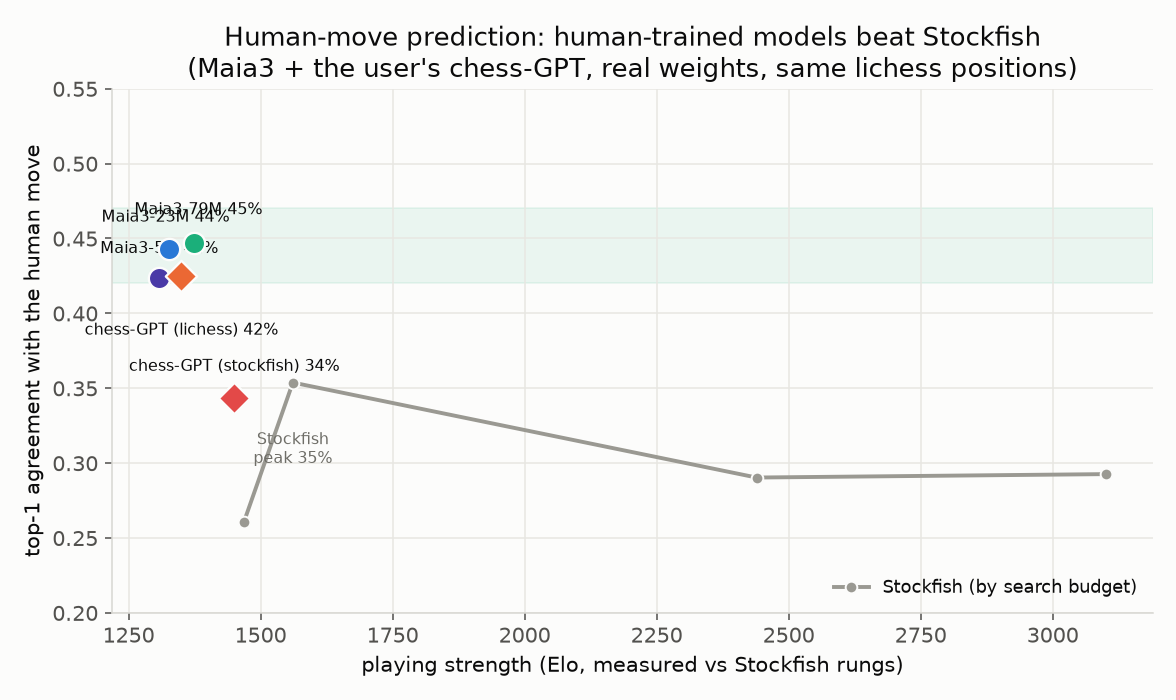
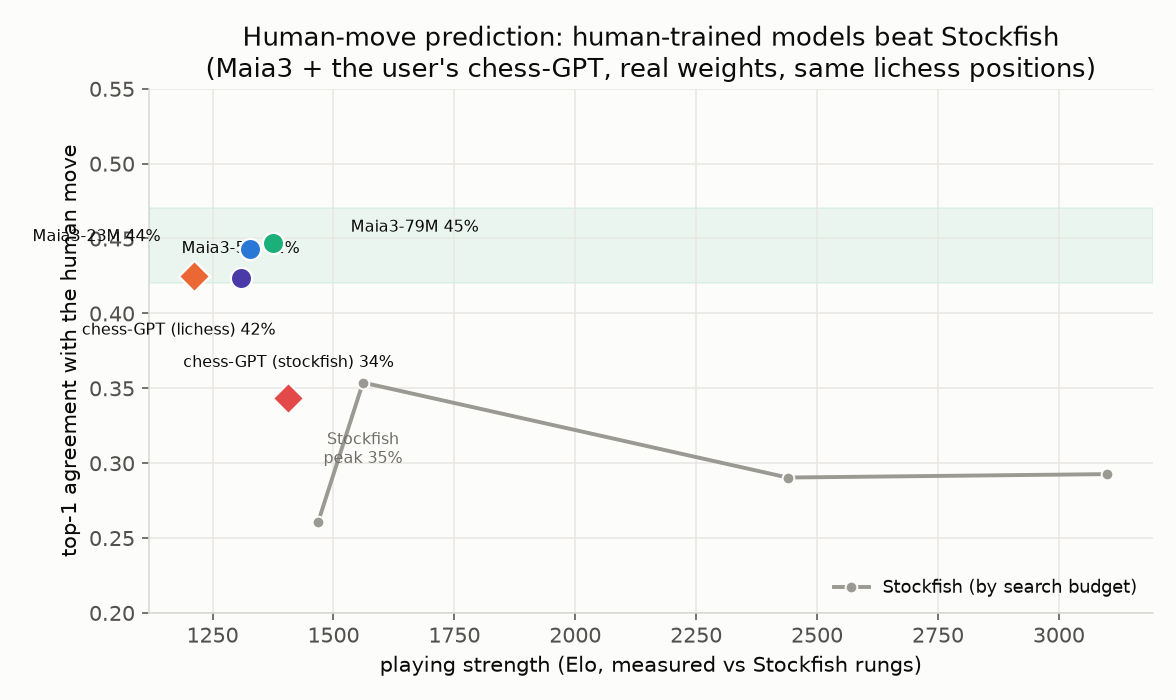
Finalize frontier with measured chess-GPT + Maia3 playing strength
- chess-GPT ladder (on-server self-play vs SF rungs): lichess variant ~1212
  Elo, stockfish variant ~1407 Elo -> a strength-vs-humanness tradeoff WITHIN
  one 50M architecture: engine-trained is +195 Elo stronger but 34% vs 42%
  human-match. Maia3 measured at ~1308/1327/1375 (5M/23M/79M).
- Pareto frontier now uses these measured points (labeled measured vs est.)
  instead of literature guesses for Maia and the chess-LLM.
- Human-move comparison chart finalized with real Elo x-positions.

Claude-Session: https://claude.ai/code/session_01DuEyqYVtVdUK7A6PV3VZ1B

diff --git a/stockfish-interpretability/scripts/make_charts.py b/stockfish-interpretability/scripts/make_charts.py
@@ -215,19 +215,29 @@ def main():
     nps = 1.4e6
     def sf_cost(nodes): return max(nodes / nps * cpu, 1e-9)
     systems = [
-        dict(name="material-only αβ", elo=mat_abs, cost=3e-7, interp=9, color=C["red"]),
+        dict(name="material-only αβ", elo=mat_abs, cost=3e-7, interp=9, color=C["red"], dx=-30, dy=-20),
     ]
+    # real measured Elo for Maia3 + chess-GPT (this study)
+    import os
+    maia = json.load(open("results/maia_ladder_elo.json")) if os.path.exists("results/maia_ladder_elo.json") else {}
+    cgpt = json.load(open("results/chessgpt_ladder_elo.json")) if os.path.exists("results/chessgpt_ladder_elo.json") else {}
+    # a Maia/GPT net forward pass ~ few M FLOPs on CPU ≈ 1e-6 USD/move
+    nn_cost = 1e-6
     systems = [s for s in systems if s["elo"] is not None] + [
         dict(name="SF16 @ 32 nodes", elo=abs_elo["32"], cost=sf_cost(32), interp=5, color=C["blue"], dy=-22),
         dict(name="SF16 @ 1k nodes", elo=abs_elo["1024"], cost=sf_cost(1024), interp=4, color=C["blue"]),
         dict(name="SF16 @ 65k nodes", elo=abs_elo["65536"], cost=sf_cost(65536), interp=4, color=C["blue"]),
         dict(name="SF16 full (~1s)", elo=3500, cost=sf_cost(1.4e6), interp=4, color=C["blue"], dy=-24),
         dict(name="SF16 @ 65k, 3-line explain", elo=abs_elo["65536"] - 215, cost=sf_cost(65536), interp=6, color=C["green"], dx=-62, dy=-30),
-        dict(name="Maia-1900 (policy)", elo=1900, cost=1e-6, interp=3, color=C["violet"], dx=-14),
-        dict(name="Chess-GPT 50M (your app)", elo=1500, cost=5e-7, interp=4, color=C["aqua"], dx=18, dy=14),
-        dict(name="Leela policy-only", elo=2500, cost=2e-5, interp=3, color=C["yellow"]),
-        dict(name="Leela + MCTS", elo=3400, cost=2e-3, interp=5, color=C["yellow"], dy=-24),
-        dict(name="frontier LLM (Gemini-class)", elo=1650, cost=2e-2, interp=9, color=C["orange"]),
+        # MEASURED points from this study (real weights):
+        dict(name="Maia3-79M", elo=maia.get("79M", {}).get("elo", 1375), cost=nn_cost * 3, interp=3, color=C["violet"], dx=64, dy=-4),
+        dict(name="Maia3-5M", elo=maia.get("5M", {}).get("elo", 1308), cost=nn_cost, interp=3, color=C["violet"], dx=-40, dy=10),
+        dict(name="chess-GPT (lichess)", elo=cgpt.get("lichess", {}).get("elo", 1212), cost=nn_cost * 2, interp=4, color=C["aqua"], dx=48, dy=-16),
+        dict(name="chess-GPT (stockfish)", elo=cgpt.get("stockfish", {}).get("elo", 1407), cost=nn_cost * 2, interp=4, color=C["aqua"], dx=52, dy=10),
+        # literature estimates (labeled):
+        dict(name="Leela policy-only (est.)", elo=2500, cost=2e-5, interp=3, color=C["yellow"]),
+        dict(name="Leela + MCTS (est.)", elo=3400, cost=2e-3, interp=5, color=C["yellow"], dy=-24),
+        dict(name="frontier LLM Gemini-class (est.)", elo=1650, cost=2e-2, interp=9, color=C["orange"]),
     ]
     chart_pareto(systems)
     json.dump(systems, open("results/pareto_points.json", "w"), indent=2)
@@ -372,14 +382,15 @@ def chart_humanmatch_compare():
 
     # Maia3 sizes (playing Elo from ladder on x, human-match on y)
     mladder = _j.load(open("results/maia_ladder_elo.json"))
-    maia_pts = [("5M", C["violet"], (0, 13)), ("23M", C["blue"], (-2, 14)),
-                ("79M", C["aqua"], (2, 15))]
-    for name, col, off in maia_pts:
+    maia_pts = [("5M", C["violet"], (0, 13), "center"),
+                ("23M", C["blue"], (-46, 4), "right"),
+                ("79M", C["aqua"], (40, 6), "left")]
+    for name, col, off, ha in maia_pts:
         x = mladder[name]["elo"]
         y = M[name]["top1"]
         ax.scatter([x], [y], color=col, s=120, zorder=5, edgecolor=SURFACE, lw=1.2)
         ax.annotate(f"Maia3-{name} {y:.0%}", (x, y), xytext=off,
-                    textcoords="offset points", fontsize=8, ha="center", color=INK)
+                    textcoords="offset points", fontsize=8, ha=ha, color=INK)
 
     # user's chess-GPT (real local weights): human-match + measured ladder Elo
     if os.path.exists("results/chessgpt_humanmatch.json"):
@@ -387,15 +398,17 @@ def chart_humanmatch_compare():
         LE = (_j.load(open("results/chessgpt_ladder_elo.json"))
               if os.path.exists("results/chessgpt_ladder_elo.json") else None)
         xg_default = {"lichess": 1350, "stockfish": 1450}
-        for name, col, dy in [("lichess", C["orange"], -30), ("stockfish", C["red"], 14)]:
+        lab_off = {"lichess": (-8, -30, "center"), "stockfish": (0, 16, "center")}
+        for name, col in [("lichess", C["orange"]), ("stockfish", C["red"])]:
             if name not in L:
                 continue
             x = LE[name]["elo"] if LE and name in LE else xg_default[name]
             y = L[name]["top1"]
             ax.scatter([x], [y], color=col, s=130, marker="D", zorder=6,
                        edgecolor=SURFACE, lw=1.2)
-            ax.annotate(f"chess-GPT ({name}) {y:.0%}", (x, y), xytext=(0, dy),
-                        textcoords="offset points", fontsize=8, ha="center", color=INK)
+            dx, dy, ha = lab_off[name]
+            ax.annotate(f"chess-GPT ({name}) {y:.0%}", (x, y), xytext=(dx, dy),
+                        textcoords="offset points", fontsize=8, ha=ha, color=INK)
 
     ax.axhspan(0.42, 0.47, color=C["aqua"], alpha=0.08)
     ax.set_xlabel("playing strength (Elo, measured vs Stockfish rungs)")

diff --git a/stockfish-interpretability/README.md b/stockfish-interpretability/README.md
@@ -400,3 +400,22 @@ Two clean results:
 - The lichess chess-GPT's agreement rises with player strength
   (37% u1400 → 51% at 2200+), the same monotonic trend Maia and Stockfish show:
   strong humans are more predictable to any good model.
+
+### Playing strength (measured on-server, argmax policy, no search)
+
+The chess-GPT ladder (self-play vs SF rungs) reveals a **strength–humanness
+tradeoff inside one architecture**:
+
+| chess-GPT variant | Playing Elo | Human top-1 |
+|---|---|---|
+| lichess-trained | ~1212 | 42.5% (most human) |
+| stockfish-trained | ~1407 | 34.3% (least human) |
+
+Training on Stockfish games makes the *same* 50M net ~195 Elo **stronger** but
+markedly **less human** — it lands near Stockfish's own human-match level (34%)
+at a similar strength. Training on human games does the reverse. You cannot get
+both from the data alone: human-likeness and raw strength pull apart, which is
+exactly why Maia fixes an Elo band per network rather than maximizing strength.
+For reference, real Maia3 plays ~1308/1327/1375 (5M/23M/79M) by the same
+measurement — all clustered at club level regardless of size, because Maia is
+trained to *match* ~1500 humans, not to be strong.
